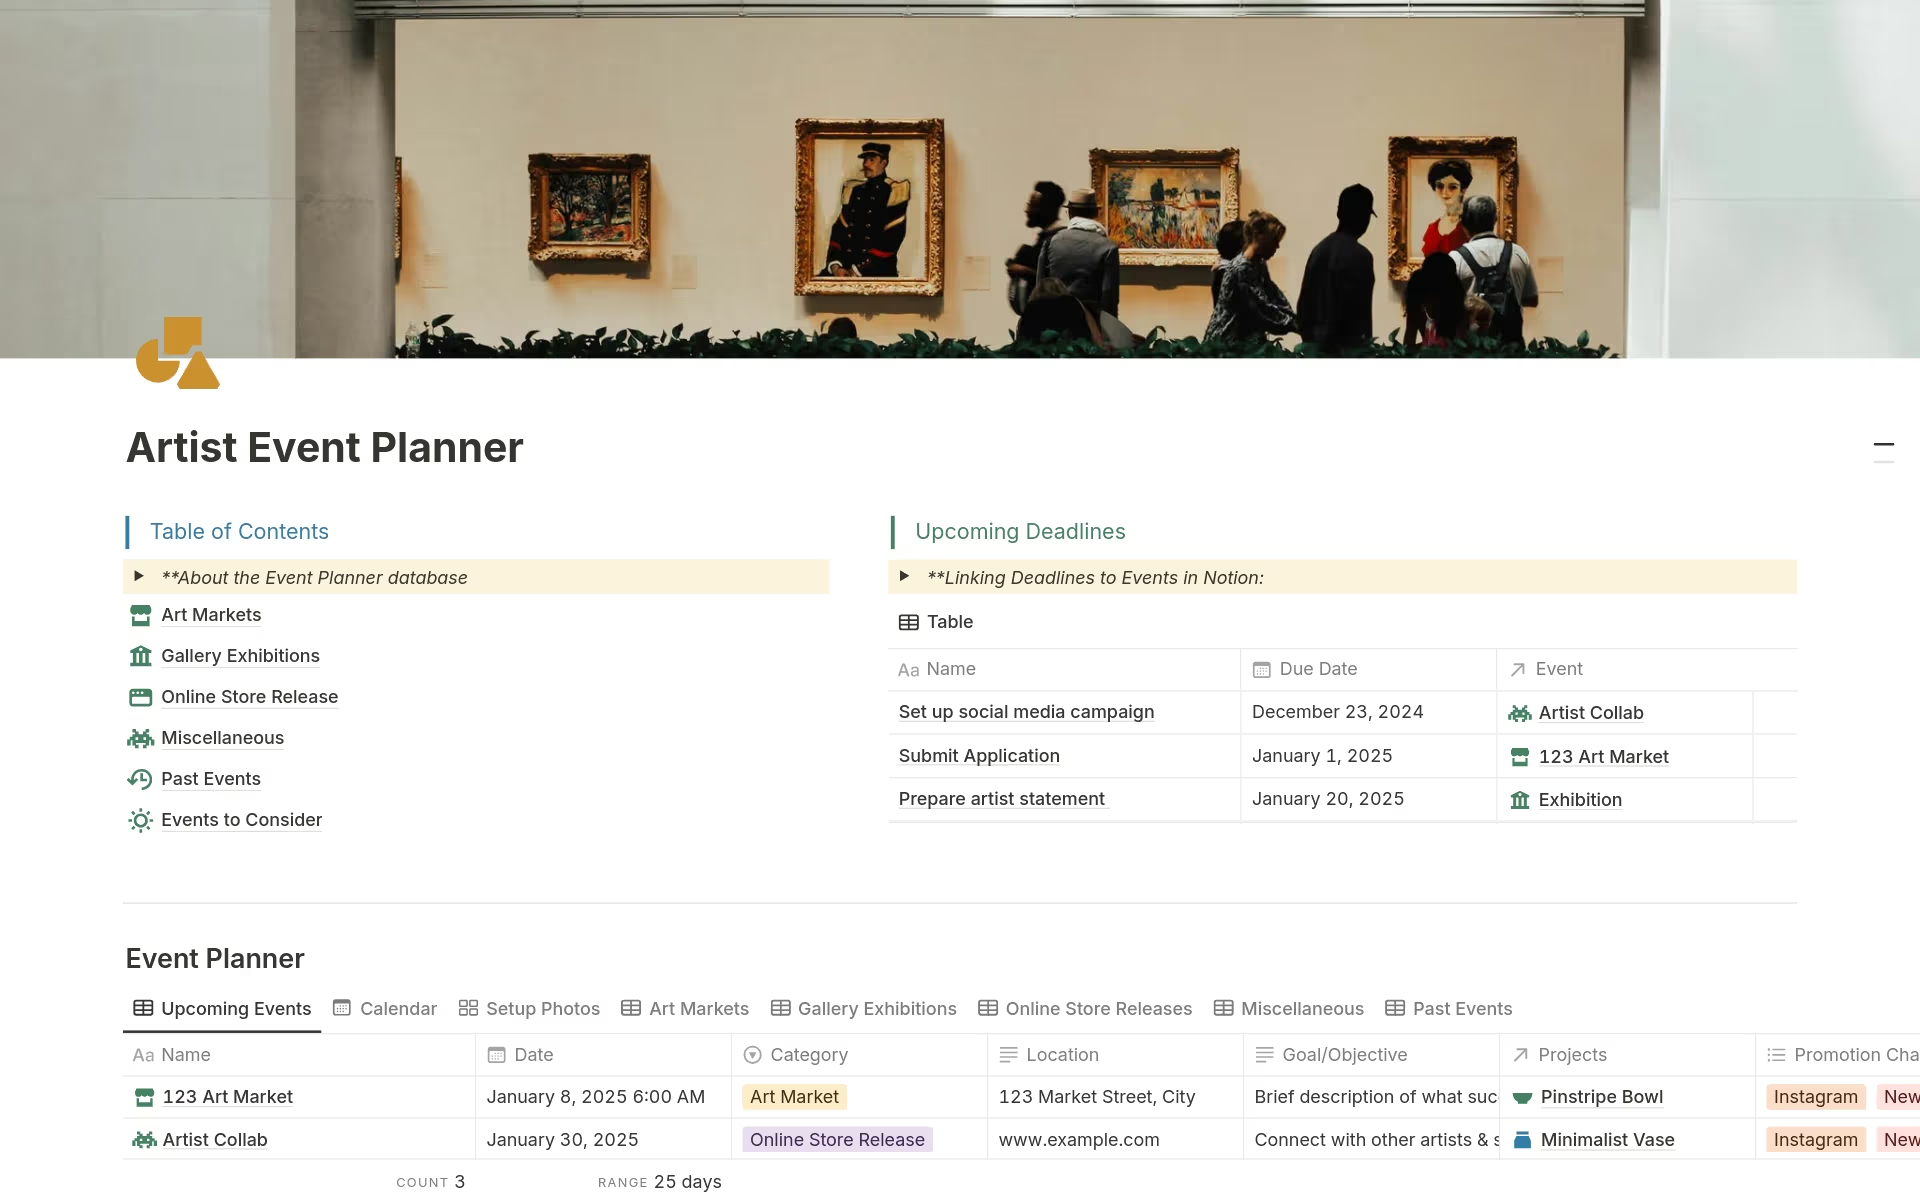
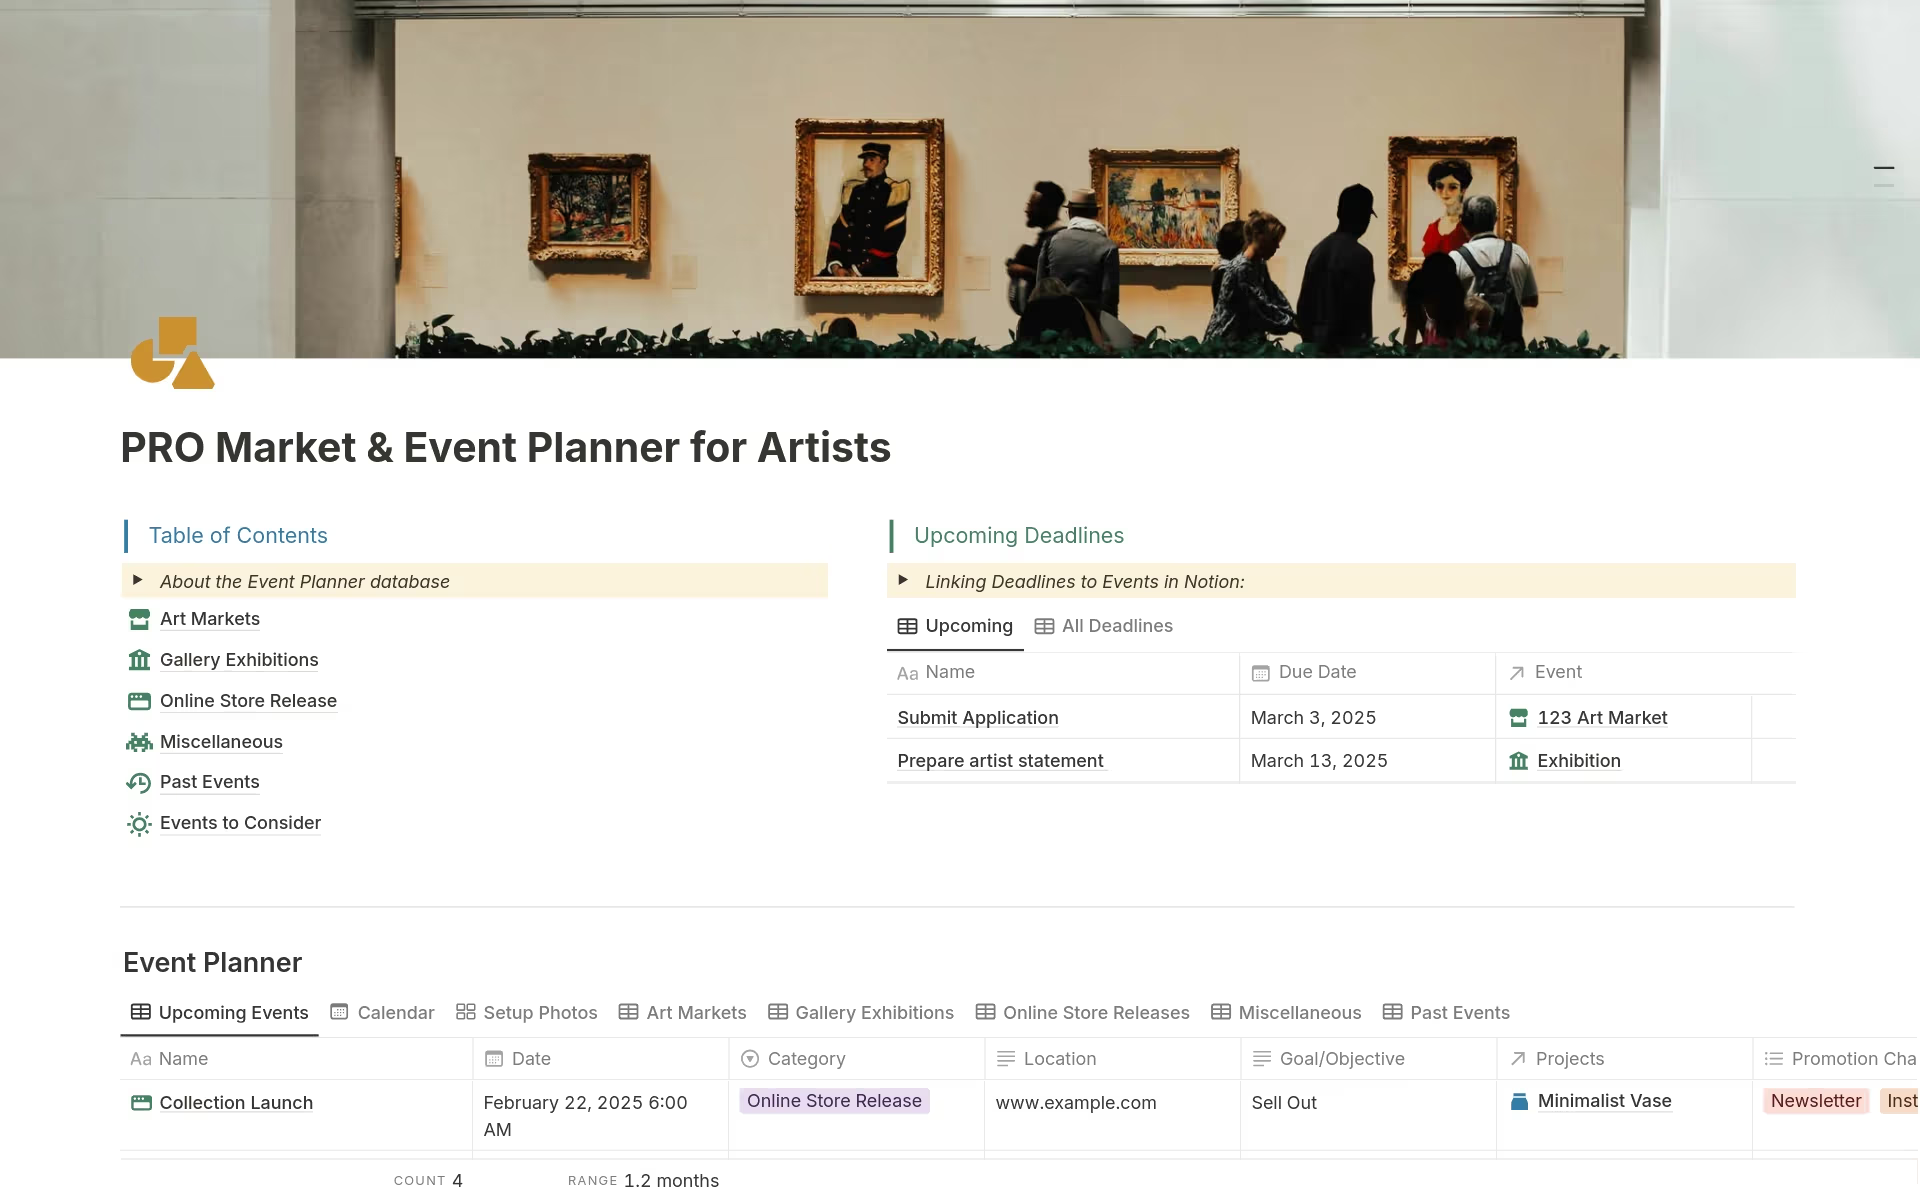
new images for Notion product listings

diff --git a/clay-house-notion.html b/clay-house-notion.html
@@ -209,9 +209,9 @@
             <img class="coverImage" src="images/notion/NotionCoverEssEventPlanner.png">
         </article>
         <div class="contentContainer">
-            <h4><b>Essential Market & Event Planner</b></h4>
+            <h4><b>Market & Event Planner</b></h4>
             <p>An ultra-simplified organizer, designed for artists who want a no-fuss way to track upcoming events and projects.</p>
-            <p>$5</p>
+            <p>$10</p>
         </div>
     </a>
 
@@ -220,7 +220,7 @@
             <img class="coverImage" src="images/notion/NotionArtistEventPlanner.png">
         </article>
         <div class="contentContainer">
-            <h4><b>Market & Event Planner</b></h4>
+            <h4><b>PRO Market & Event Planner</b></h4>
             <p>The ultimate tool to plan events, track progress, reflect on past experiences, and explore new opportunities.</p>
             <p>$15</p>
         </div>
@@ -228,10 +228,10 @@
 
     <a href="https://affiliate.notion.so/ceramicist-professional-toolkit" id="card">
         <article>
-            <img class="coverImage" src="images/notion/NotionCeramicistProToolkit.png">
+            <img class="coverImage" src="images/notion/NotionPortfolioCareerDash.png">
         </article>
         <div class="contentContainer">
-            <h4><b>Professional Toolkit</b></h4>
+            <h4><b>Portfolio & Career Dashboard</b></h4>
             <p>A comprehensive organizational template designed to help artists manage and grow their careers.</p>
             <p>$15</p>
         </div>
